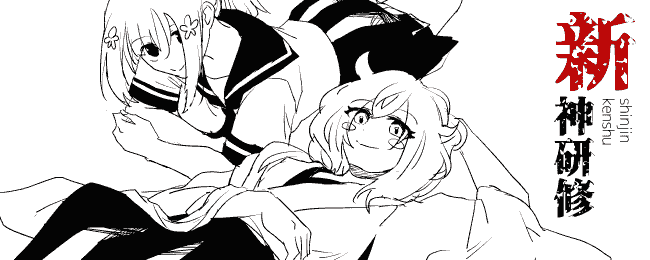
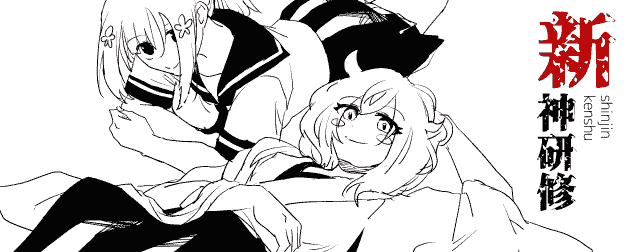
Add files via upload

diff --git a/39.html b/39.html
@@ -24,26 +24,26 @@
 <body style="background:#eee">
 
 <p class="pager"><a href="index.html">トップに戻る</a></p>
-<p class="pager"><a href="37.html">&lt;&lt; 前</a><a href="39.html">次 &gt;&gt;</a></p>
+<p class="pager"><a href="38.html">&lt;&lt; 前</a><!--<a href="40.html">次 &gt;&gt;</a>--></p>
 
 <div id="bgi"><hr>
-<h1>第38話</h1><hr>
-<br><div class="center"><img src="38/38_001.png"></div><br>
-<br><div class="center"><img src="38/38_002.png"></div><br>
-<br><div class="center"><img src="38/38_003.png"></div><br>
-<br><div class="center"><img src="38/38_004.png"></div><br>
-<br><div class="center"><img src="38/38_005.png"></div><br>
-<br><div class="center"><img src="38/38_006.png"></div><br>
-<br><div class="center"><img src="38/38_007.png"></div><br>
-<br><div class="center"><img src="38/38_008.png"></div><br>
-<br><div class="center"><img src="38/38_009.png"></div><br>
-<br><div class="center"><img src="38/38_010.png"></div><br>
-<br><div class="center"><img src="38/38_011.png"></div><br>
-<br><div class="center"><img src="38/38_012.png"></div><br>
-<br><div class="center"><img src="38/38_013.png"></div><br>
-<br><div class="center"><img src="38/38_014.png"></div><br>
-<br><div class="center"><img src="38/38_015.png"></div><br>
-<br><div class="center"><img src="38/38_016.png"></div><br>
+<h1>第39話</h1><hr>
+<br><div class="center"><img src="39/39_001.png"></div><br>
+<br><div class="center"><img src="39/39_002.png"></div><br>
+<br><div class="center"><img src="39/39_003.png"></div><br>
+<br><div class="center"><img src="39/39_004.png"></div><br>
+<br><div class="center"><img src="39/39_005.png"></div><br>
+<br><div class="center"><img src="39/39_006.png"></div><br>
+<br><div class="center"><img src="39/39_007.png"></div><br>
+<br><div class="center"><img src="39/39_008.png"></div><br>
+<br><div class="center"><img src="39/39_009.png"></div><br>
+<br><div class="center"><img src="39/39_010.png"></div><br>
+<br><div class="center"><img src="39/39_011.png"></div><br>
+<br><div class="center"><img src="39/39_012.png"></div><br>
+<br><div class="center"><img src="39/39_013.png"></div><br>
+<br><div class="center"><img src="39/39_014.png"></div><br>
+<br><div class="center"><img src="39/39_015.png"></div><br>
+<br><div class="center"><img src="39/39_016.png"></div><br>
 
 </div>
 
@@ -52,7 +52,7 @@
 <form action="https://neetsha.jp/inside/comment.php" method="post"><input type="hidden" name="methodid" value="1" /><input type="hidden" name="id" value="23478" /><input type="hidden" name="enc" value="0" /><textarea name="comment" maxlength="255" style="width:80%; height:4em;" placeholder="コメントする"></textarea><p><label><input type="checkbox" name="sage" value="1" />sage
 </label><input type="submit" name="submit" value="送信" /></p><p><a href="https://neetsha.jp/inside/comment.php?id=23478">〒みんなの感想を読む</a></p></form></div>
 
-<p class="pager"><a href="37.html">&lt;&lt; 前</a><a href="39.html">次 &gt;&gt;</a></p>
+<p class="pager"><a href="38.html">&lt;&lt; 前</a><!--<a href="40.html">次 &gt;&gt;</a>--></p>
 <p class="pager"><a href="index.html">トップに戻る</a></p>
 
 <p><a href="https://neetsha.jp/" target="_top"><img src="https://neetsha.jp/image/banner.gif" alt="Neetsha" /></a></p>

diff --git a/index.html b/index.html
@@ -18,8 +18,7 @@
 <hr>
 
 <p class="announce">
-    <b><font color="ee0000">2022/06-07　&nbsp;<a href="38.html" target="_self">第38話</a>更新</font></b><br><br>
-    <b><font color="0033CC">2022/06-07　&nbsp;いただいた絵<a href="FA3.html" target="_self">（3）</a>&nbsp;<a href="FA4.html" target="_self">（4）</a>更新</font></b><br>
+    <b><font color="ee0000">2022/06-17　&nbsp;<a href="39.html" target="_self">第39話</a>更新</font></b>
 </p>
 
 <hr>
@@ -85,6 +84,7 @@
     <br class="pc">
 
     <p>&nbsp;<a href="38.html" target="_self">第38話</a></p>
+    <p>&nbsp;<a href="39.html" target="_self">第39話</a></p>
     
 </div>
 
@@ -128,17 +128,49 @@
 <hr>
 
 
-<div class="bun">ねえ！小生すごい大発見したからきいて！、<br>
+<div class="bun">今まで、どの、ジンオウガにも、負けたことの無い、流石の小生でも、負けるものランキング<br>
     <br>
-    「お礼漫画更新した」の文字を略すと、<br>
+    三本の指に、入るのが、虫の羽音だ<br>
     <br>
-    お漫更した<br>
+    耳元で、羽音が、鳴った日なんかは、一睡も、出来なくなる<br>
+    <br>
+    夏は蚊の羽音がクソゴミカスバカアホウンコ❗バカ❗<br>
+    この前も、耳元で、羽音が、鳴り、<br>
+    小生は、ハエたたきで、部屋の中を、踊り回った<br>
+    <br>
+    （こういう時は、東京音頭ですね❗）<br>
+    <br>
+    だが、あいつらは強敵だ、<br>
+    するりと、小生の、ハエたたきを、かわしやがる‼<br>
+    <br>
+    小生のハンターレベルが低いというのも、あるが❗💦<br>
+    Sランク冒険者は、目を閉じながらでも、蚊を、討伐、できるらしい<br>
+    <br>
+    20分の、激闘の末、<br>
+    デカい蚊を、仕留めた手応えは、あったが、死体が、見つからない<br>
+    <br>
+    今も見つかってない❗💦<br>
+    安心、できない❗怖い❗💦<br>
     <br>
     <br>
-    お まん こう <br>
+    👹お願いします、<br>
+    蚊がこの文章を、読んでいたら、<br>
+    小生の、切実な、願いを、聞いてください、本当にお願いします<br>
     <br>
-    <br><br>
-    𝒐 𝒎𝒂𝒏 𝒌𝒐．<br>
+    👹蚊は、羽音を鳴らすな❗ 💥💢💥<br>
+    羽音を、鳴らさないのなら、好きなだけ、血を吸い、好きなだけ、痒くして、いいから❗❗<br>
+    <br>
+    <br>
+    📞🤱太郎。<br>
+    <br>
+    📞🤱母さんは、痒くなるのが、一番、いやよ。<br>
+    <br>
+    <br>
+    耳元で、羽音がする、不快感は、なぜか、小生の家族には、共感を、得られなかった。<br>
+    小生さんは、羽音＞痒みだが、<br>
+    みんなさんは、痒み＞羽音らしい。<br>
+    <br>
+    ふしぎな、ものですね。💥💢💥<br>
     <br>
 </div>
 

diff --git a/4.html b/4.html
@@ -27,23 +27,23 @@
 <p class="pager"><a href="3.html">&lt;&lt; 前</a><a href="5.html">次 &gt;&gt;</a></p>
 <div id="bgi"><hr>
 <h1>第4話</h1><hr>
-<br><div class="center"><img src="4/4_001.jpg"></div><br>
-<br><div class="center"><img src="4/4_002.jpg"></div><br>
-<br><div class="center"><img src="4/4_003.jpg"></div><br>
-<br><div class="center"><img src="4/4_004.jpg"></div><br>
-<br><div class="center"><img src="4/4_005.jpg"></div><br>
-<br><div class="center"><img src="4/4_006.jpg"></div><br>
-<br><div class="center"><img src="4/4_007.jpg"></div><br>
-<br><div class="center"><img src="4/4_008.jpg"></div><br>
-<br><div class="center"><img src="4/4_009.jpg"></div><br>
-<br><div class="center"><img src="4/4_010.jpg"></div><br>
-<br><div class="center"><img src="4/4_011.jpg"></div><br>
-<br><div class="center"><img src="4/4_012.jpg"></div><br>
-<br><div class="center"><img src="4/4_013.jpg"></div><br>
-<br><div class="center"><img src="4/4_014.jpg"></div><br>
-<br><div class="center"><img src="4/4_015.jpg"></div><br>
-<br><div class="center"><img src="4/4_016.jpg"></div><br>
-<br><div class="center"><img src="4/4_017.jpg"></div><br>
+<br><div class="center"><img src="4/4_001.png"></div><br>
+<br><div class="center"><img src="4/4_002.png"></div><br>
+<br><div class="center"><img src="4/4_003.png"></div><br>
+<br><div class="center"><img src="4/4_004.png"></div><br>
+<br><div class="center"><img src="4/4_005.png"></div><br>
+<br><div class="center"><img src="4/4_006.png"></div><br>
+<br><div class="center"><img src="4/4_007.png"></div><br>
+<br><div class="center"><img src="4/4_008.png"></div><br>
+<br><div class="center"><img src="4/4_009.png"></div><br>
+<br><div class="center"><img src="4/4_010.png"></div><br>
+<br><div class="center"><img src="4/4_011.png"></div><br>
+<br><div class="center"><img src="4/4_012.png"></div><br>
+<br><div class="center"><img src="4/4_013.png"></div><br>
+<br><div class="center"><img src="4/4_014.png"></div><br>
+<br><div class="center"><img src="4/4_015.png"></div><br>
+<br><div class="center"><img src="4/4_016.png"></div><br>
+<br><div class="center"><img src="4/4_017.png"></div><br>
 </div>
 <div id="comment"><p>コメント</p>
 <script type="text/javascript">var comicid = 23478;</script>

diff --git a/index.css b/index.css
@@ -28,7 +28,7 @@ a:hover {
 
 #bgi img{
 	width: 100%;
-	max-width: 650px; /* 最大幅 */
+	max-width: 630px; /* 最大幅 */
 }
 
 .FA img{
